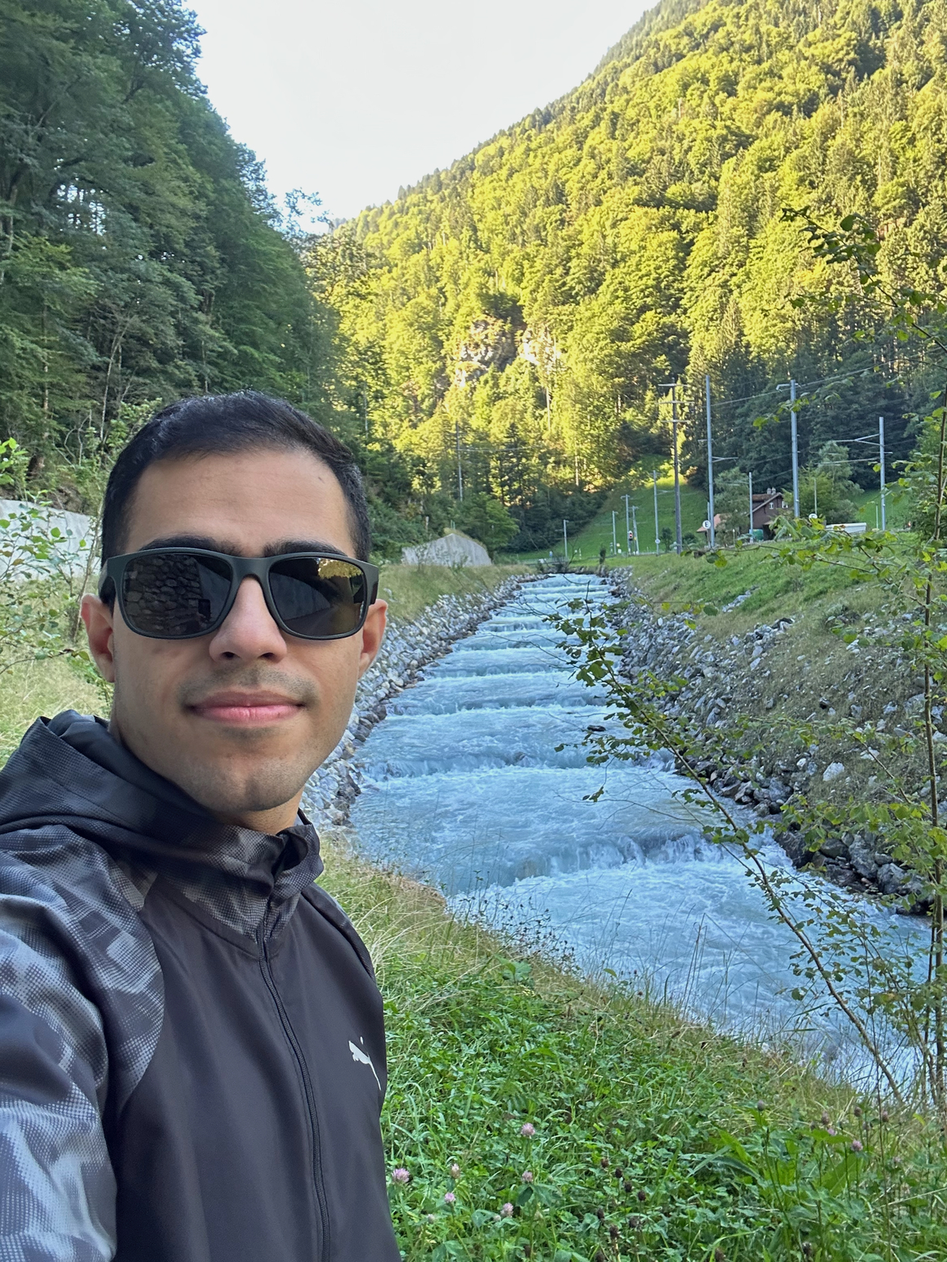
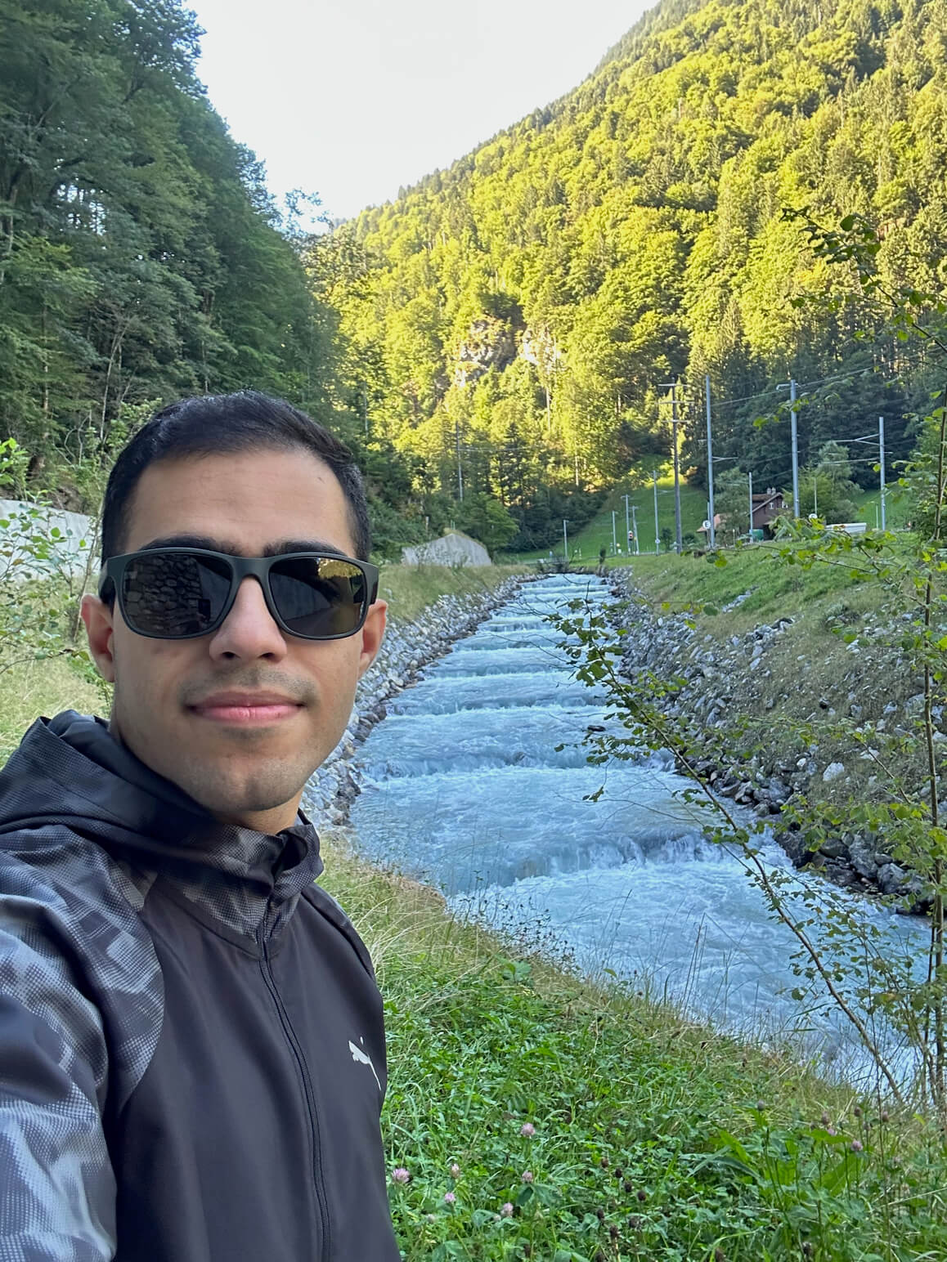
enhancement: optimise images size and preload them to make LCP and FCP enhance

Changed region(s): [[0.9948, 0.4974, 1.0, 0.5285]]

diff --git a/src/app/(about-me)/_components/AboutMeHero.tsx b/src/app/(about-me)/_components/AboutMeHero.tsx
@@ -23,38 +23,42 @@ const AboutMeHeroSection = () => {
 
       <div className="space-y-6 px-4 md:space-y-11 md:px-0">
         <div className="mx-auto grid grid-cols-2 grid-rows-2 items-center justify-items-center sm:w-1/2 md:w-full md:grid-cols-4 md:grid-rows-1">
-          <figure className="relative left-10 top-6 h-[165px] w-[150px] -rotate-[13.84deg] self-center overflow-hidden rounded-20 transition-all duration-150 ease-in-out hover:z-10 md:top-0 md:h-[275px] md:w-[250px] md:hover:left-8">
+          <figure className="relative left-10 top-6 block h-[165px] w-[150px] -rotate-[13.84deg] self-center overflow-hidden rounded-20 transition-all duration-150 ease-in-out hover:z-10 md:top-0 md:h-[275px] md:w-[250px] md:hover:left-8">
             <Image
               src={heroImage}
               alt="hero image"
-              placeholder="blur"
+              priority
               fill
+              quality={70}
               className="h-full w-full object-cover object-center"
             />
           </figure>
-          <figure className="relative -left-12 top-6 h-[165px] w-[150px] rotate-[7.39deg] overflow-hidden rounded-20 transition-all duration-150 ease-in-out hover:z-10 md:left-0 md:top-0 md:h-[275px] md:w-[250px] md:hover:left-4">
+          <figure className="relative -left-12 top-6 block h-[165px] w-[150px] rotate-[7.39deg] overflow-hidden rounded-20 transition-all duration-150 ease-in-out hover:z-10 md:left-0 md:top-0 md:h-[275px] md:w-[250px] md:hover:left-4">
             <Image
               src={armanFirstImage}
               alt="hero image"
-              placeholder="blur"
+              priority
+              quality={70}
               fill
               className="h-full w-full object-cover object-center"
             />
           </figure>
-          <figure className="relative -top-4 left-10 h-[165px] w-[150px] rotate-[7.39deg] overflow-hidden rounded-20 transition-all duration-150 ease-in-out hover:z-10 md:-left-2 md:top-0 md:h-[275px] md:w-[250px] md:-rotate-[13.84deg] md:hover:-left-4">
+          <figure className="relative -top-4 left-10 block h-[165px] w-[150px] rotate-[7.39deg] overflow-hidden rounded-20 transition-all duration-150 ease-in-out hover:z-10 md:-left-2 md:top-0 md:h-[275px] md:w-[250px] md:-rotate-[13.84deg] md:hover:-left-4">
             <Image
               src={armanSecondImage}
               alt="hero image"
-              placeholder="blur"
+              priority
+              quality={70}
               fill
               className="h-full w-full object-cover object-center"
             />
           </figure>
-          <figure className="relative -left-12 -top-4 h-[165px] w-[150px] -rotate-[13.84deg] overflow-hidden rounded-20 transition-all duration-150 ease-in-out hover:z-10 md:-left-8 md:top-0 md:h-[275px] md:w-[250px] md:rotate-[7.39deg] md:hover:-left-4">
+          <figure className="relative -left-12 -top-4 block h-[165px] w-[150px] -rotate-[13.84deg] overflow-hidden rounded-20 transition-all duration-150 ease-in-out hover:z-10 md:-left-8 md:top-0 md:h-[275px] md:w-[250px] md:rotate-[7.39deg] md:hover:-left-4">
             <Image
               src={heroImage}
               alt="hero image"
-              placeholder="blur"
+              priority
+              quality={70}
               fill
               className="h-full w-full object-cover object-center"
             />

diff --git a/src/app/(home)/_components/HomeHeroSection.tsx b/src/app/(home)/_components/HomeHeroSection.tsx
@@ -32,13 +32,14 @@ const HomeHeroSection = () => {
         </p>
       </article>
 
-      <figure className="h-[320px] w-[250px] rotate-6 overflow-hidden rounded-20 shadow-heroImage2 transition-all duration-100 ease-linear hover:-rotate-2 sm:h-[370px] sm:w-[330px] md:order-2 md:h-[400px] md:w-[360px]">
+      <figure className="block h-[320px] w-[250px] rotate-6 overflow-hidden rounded-20 shadow-heroImage2 transition-all duration-100 ease-linear hover:-rotate-2 sm:h-[370px] sm:w-[330px] md:order-2 md:h-[400px] md:w-[360px]">
         <Image
           src={heroImage}
           alt="hero image"
-          placeholder="blur"
           fill
+          priority
           className="h-full w-full object-cover object-center"
+          quality={70}
         />
       </figure>
     </section>

diff --git a/src/constants/index.ts b/src/constants/index.ts
@@ -1,15 +1,7 @@
-import heroImage from "@/public/images/hero-img.jpeg";
-import armanFirstImage from "@/public/images/arman-one.jpg";
+import heroImage from "@/public/images/hero-img.webp";
+import armanFirstImage from "@/public/images/arman-one.webp";
 import armanSecondImage from "@/public/images/arman-two.jpeg";
-import companyLogo from "@/public/images/company-logo.jpg";
 import logoDark from "@/public/images/sample-logo.svg";
 import logoWhite from "@/public/images/sample-logo-white.svg";
 
-export {
-  heroImage,
-  companyLogo,
-  logoDark,
-  logoWhite,
-  armanFirstImage,
-  armanSecondImage,
-};
+export { heroImage, logoDark, logoWhite, armanFirstImage, armanSecondImage };
